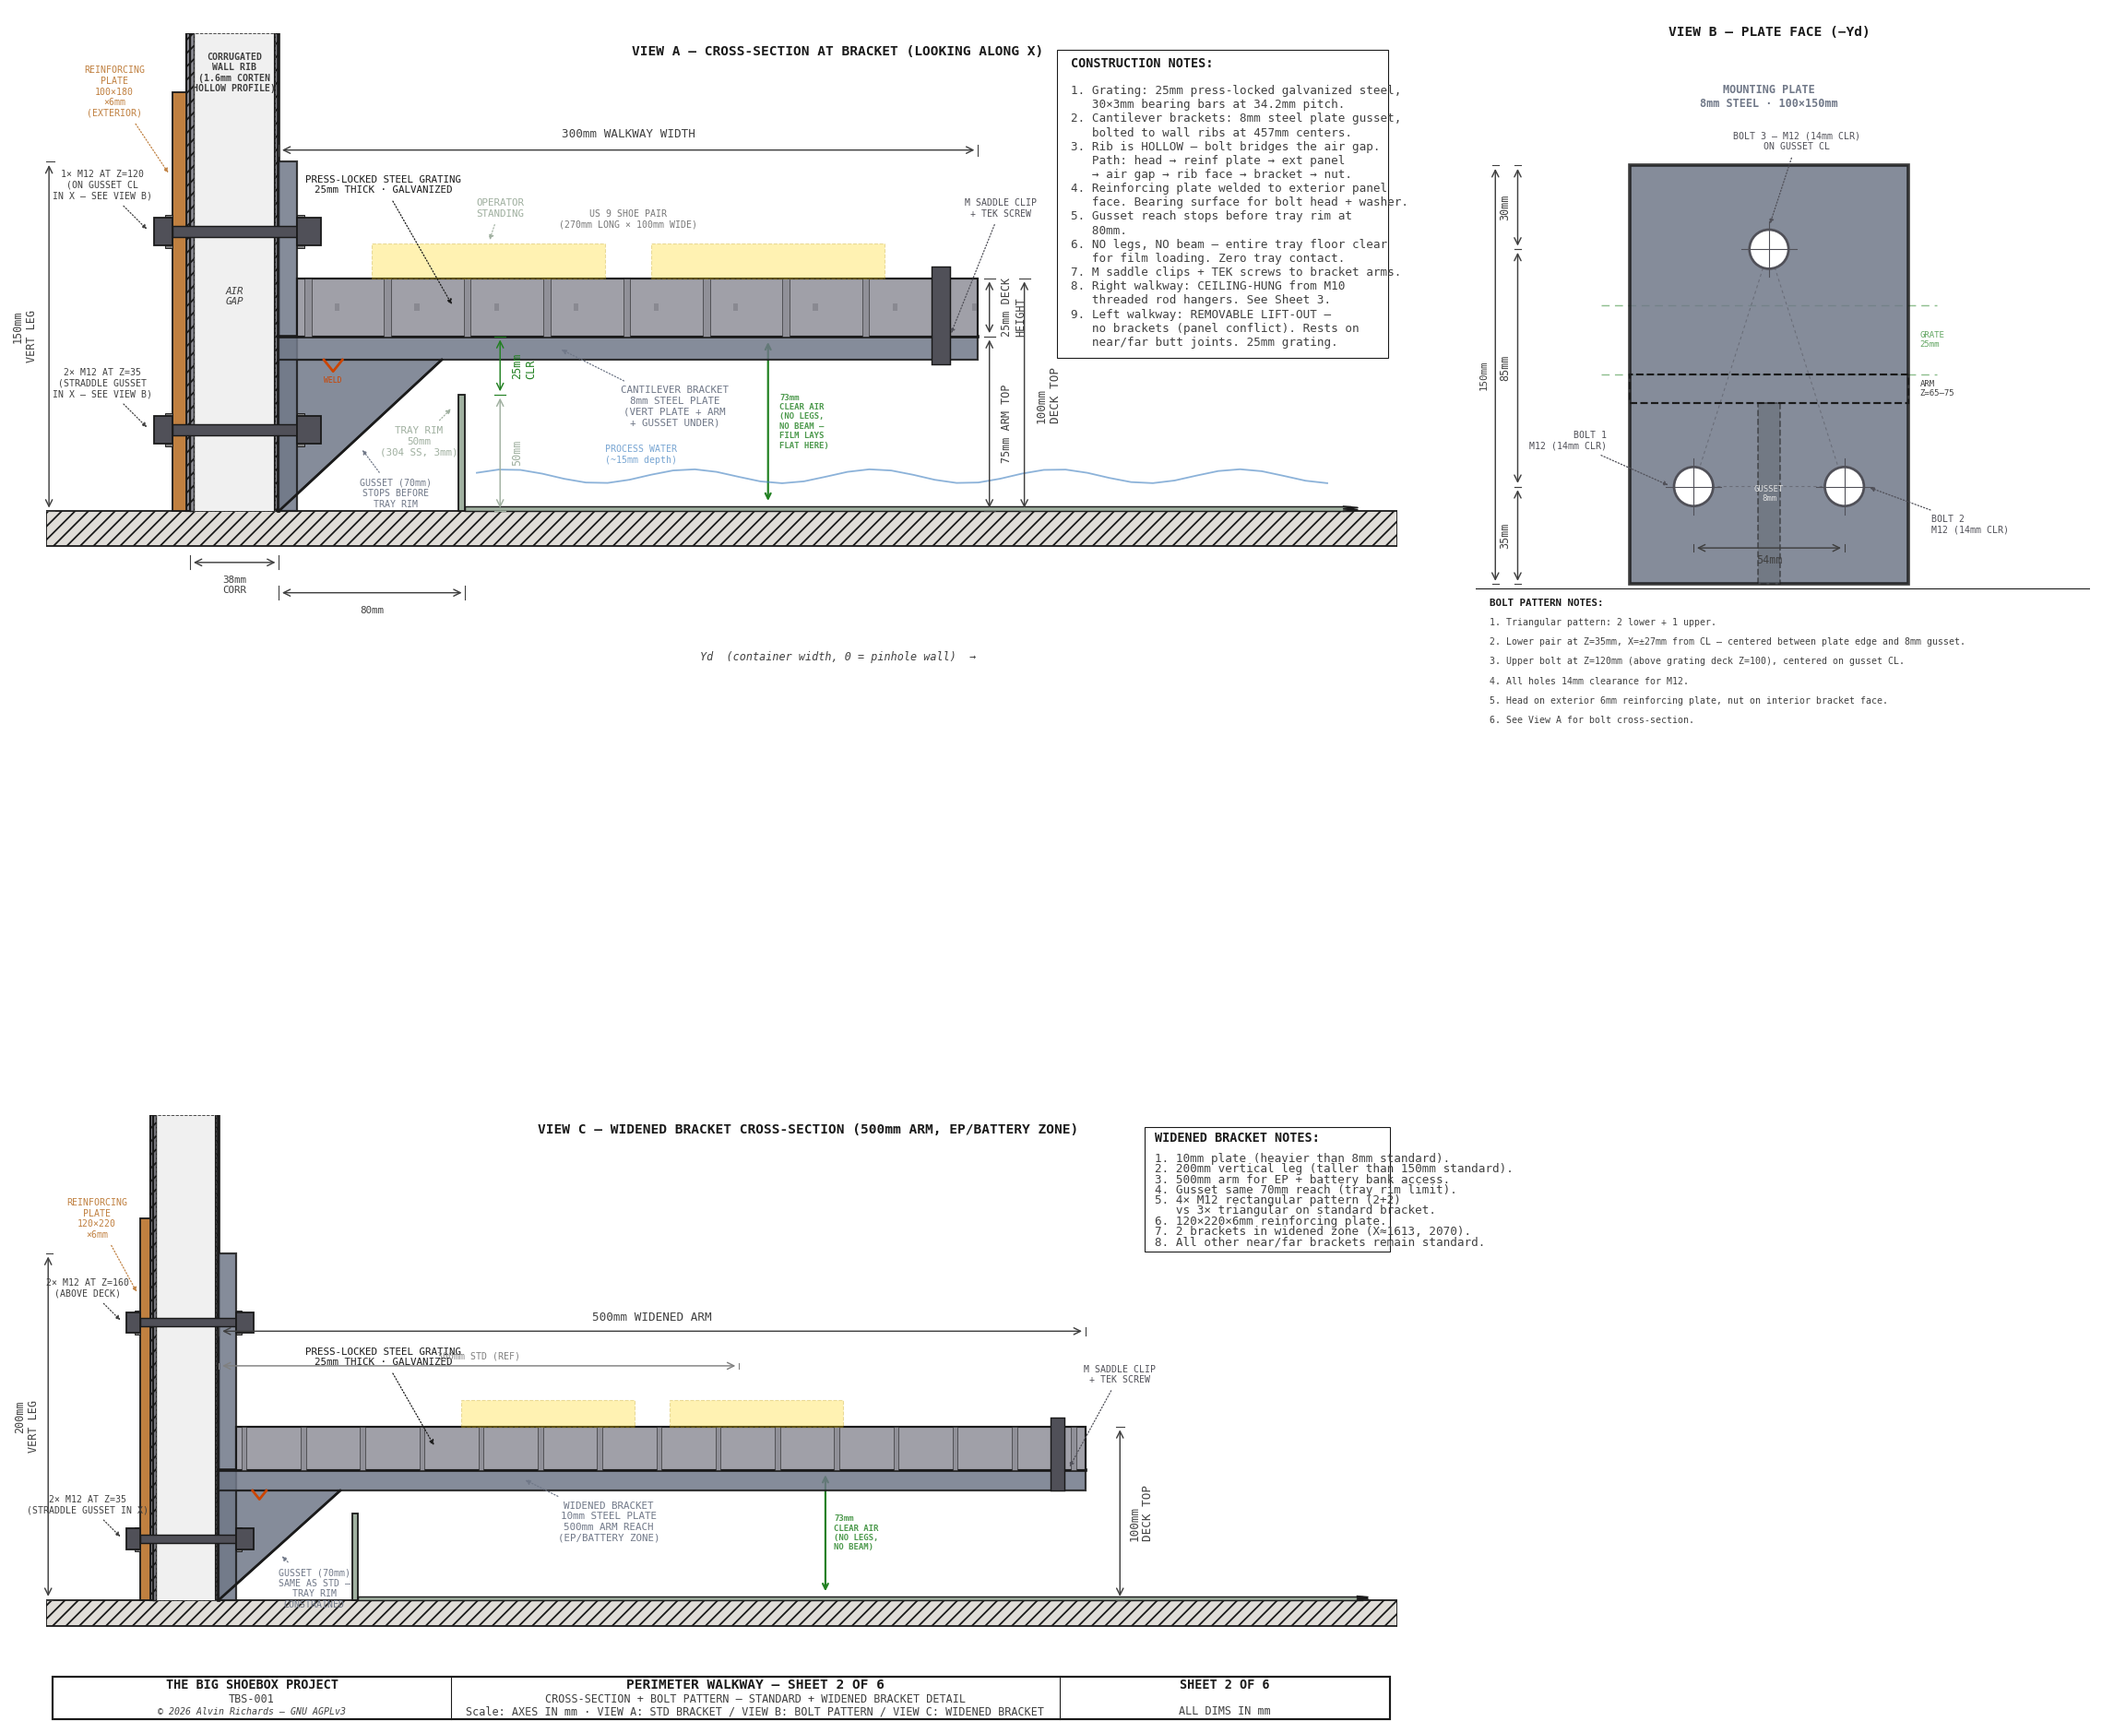
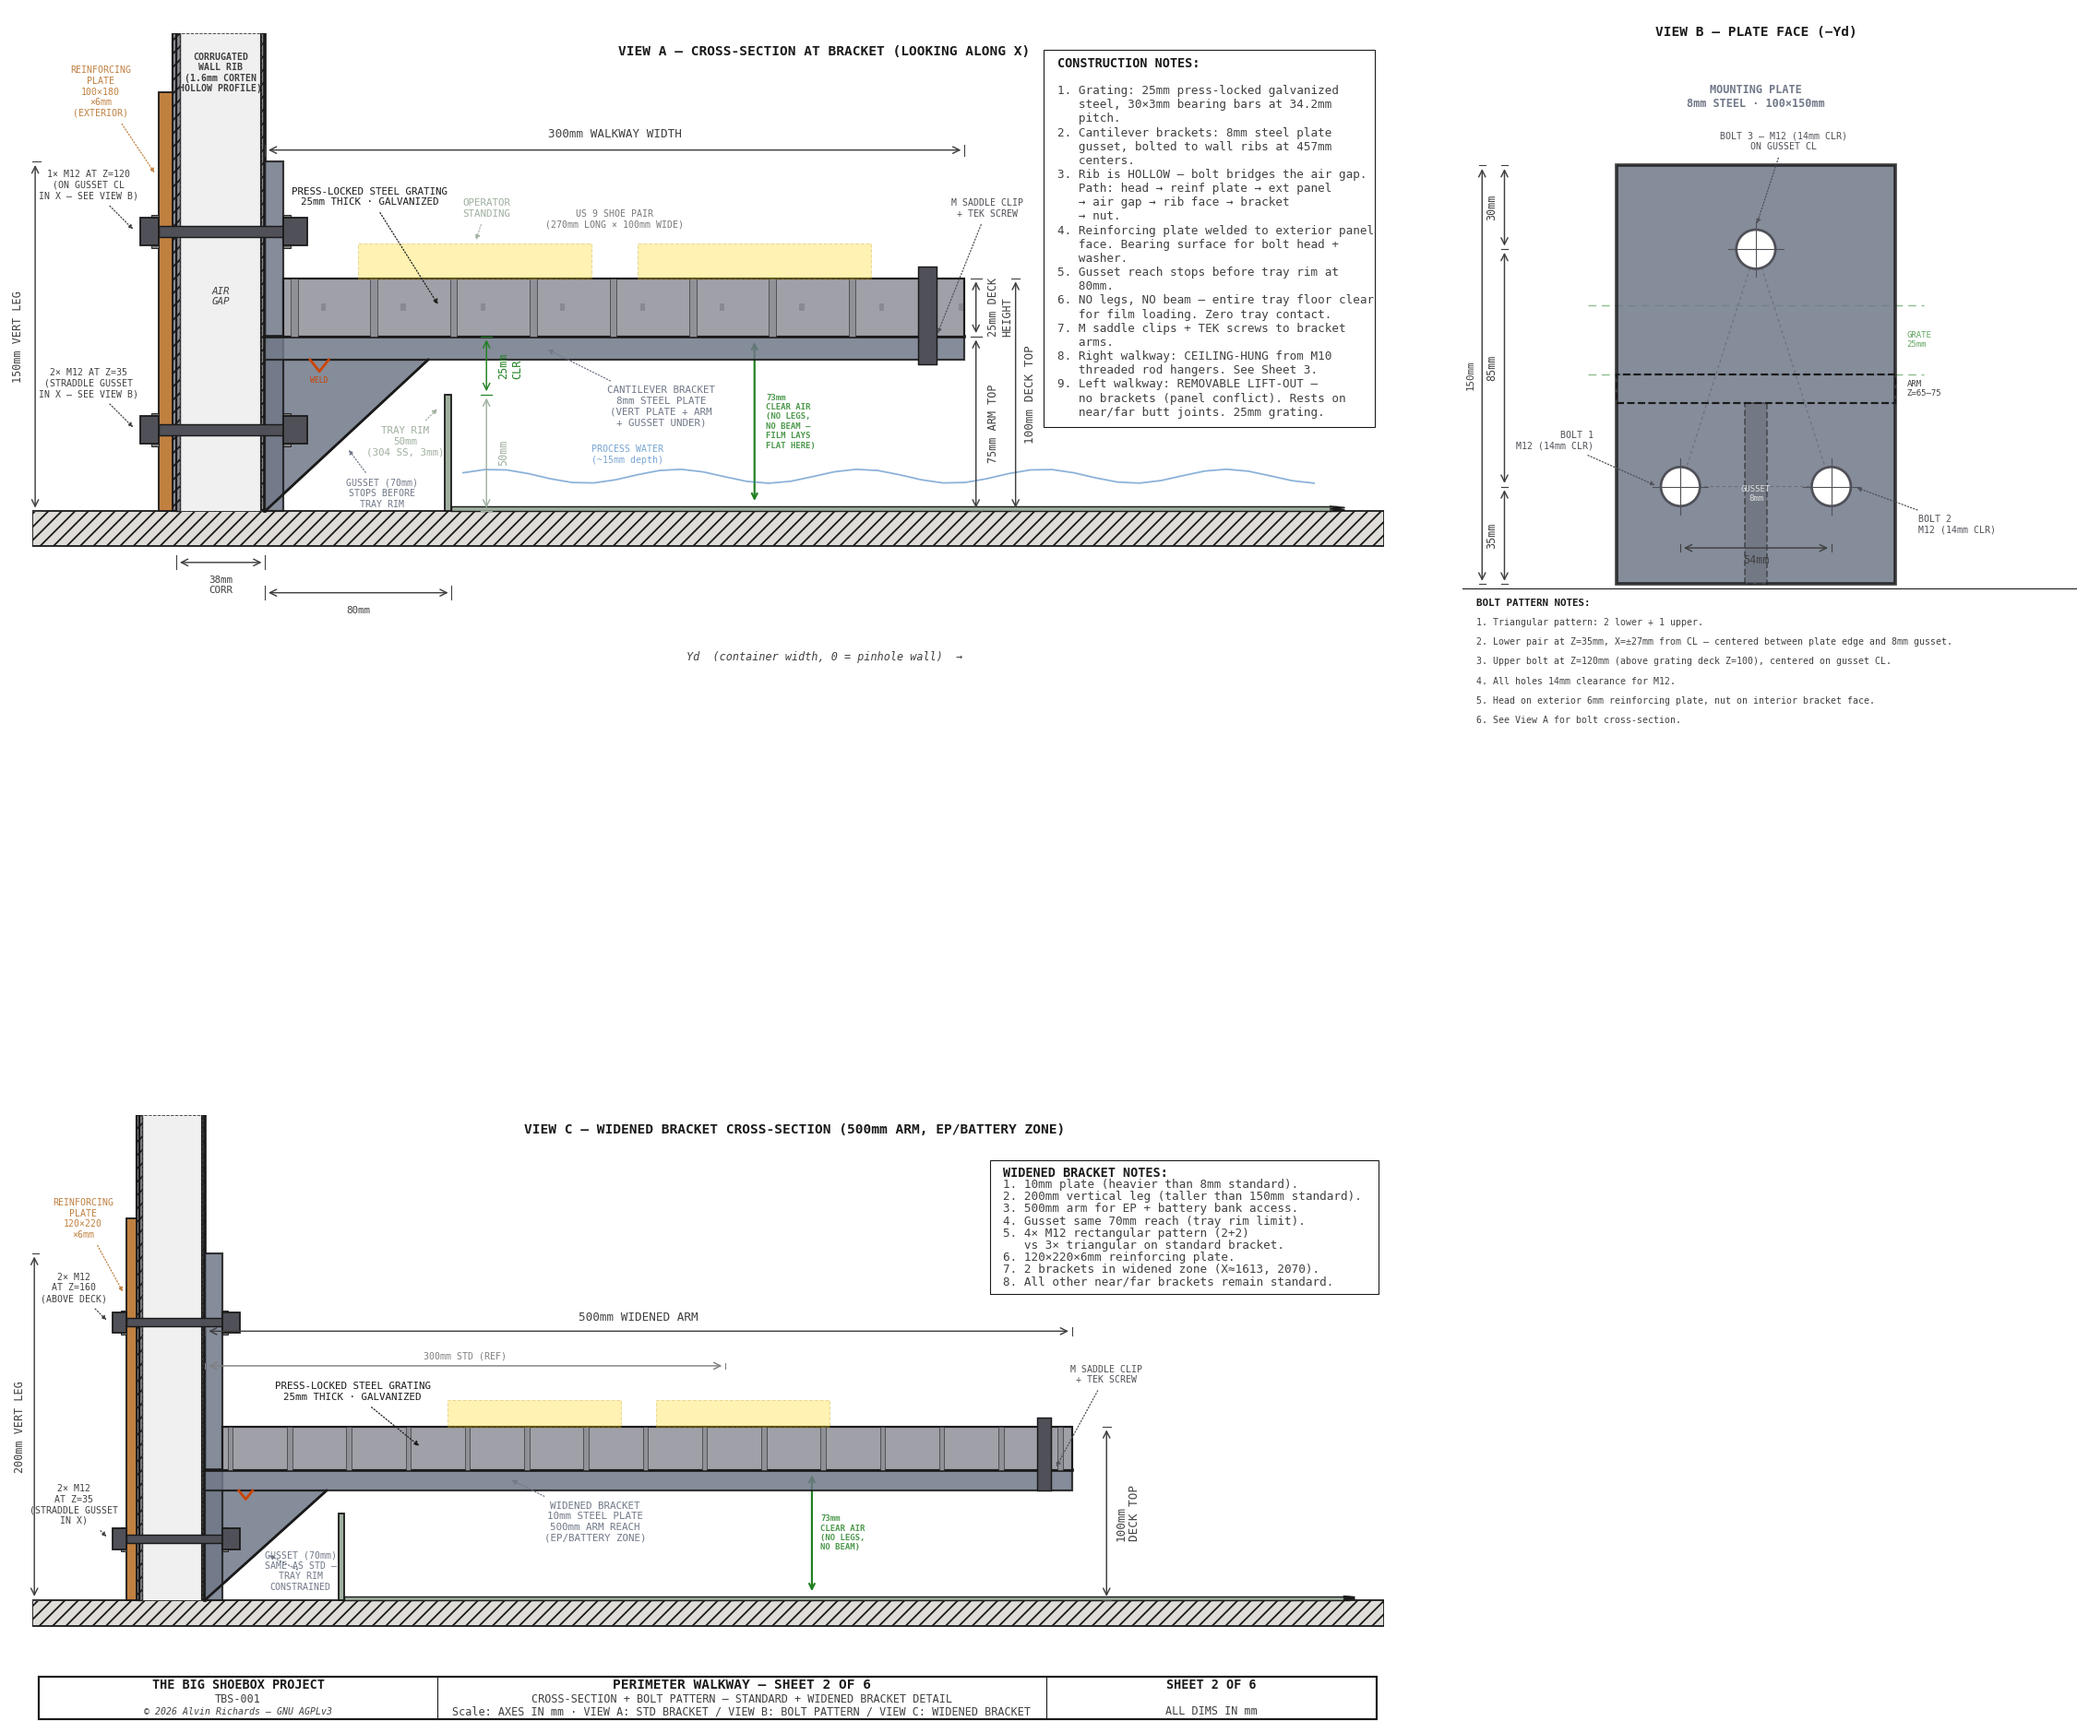
Tidy labels

diff --git a/generate_walkway_diagram.py b/generate_walkway_diagram.py
@@ -374,7 +374,7 @@ def sheet2():
                                 fc="#808088", ec="none", zorder=9, alpha=0.7))
 
     leader(ax, sx(WALKWAY_W / 4), sy((grate_bot + grate_top) / 2),
-           sx(WALKWAY_W / 4 - 30), sy(grate_top + 40),
+           sx(WALKWAY_W / 4 - 30), sy(grate_top + 35),
            f"PRESS-LOCKED STEEL GRATING\n{WALKWAY_GRATE_T}mm THICK \u00b7 GALVANIZED",
            color=C_OUT, fs=6, ha="center", va="center",
            arrow_style="-|>", font=FONT)
@@ -411,8 +411,8 @@ def sheet2():
                f"{WALKWAY_W}mm WALKWAY WIDTH", offset=sy(8), fs=7, font=FONT)
 
     # Deck height (floor to grate top)
-    draw_dim_v(ax, sx(WALKWAY_W + 20), sy(0), sy(grate_top),
-               f"{WALKWAY_H}mm\nDECK TOP", offset=sx(8), fs=7, right=True, font=FONT)
+    draw_dim_v(ax, sx(WALKWAY_W + 22), sy(0), sy(grate_top),
+               f"{WALKWAY_H}mm DECK TOP", offset=sx(6), fs=7, right=True, font=FONT)
 
     # Grate thickness
     draw_dim_v(ax, sx(WALKWAY_W + 5), sy(grate_bot), sy(grate_top),
@@ -420,7 +420,7 @@ def sheet2():
 
     # Bracket vertical leg height
     draw_dim_v(ax, sx(reinf_yd - BOLT_HEAD - 45), sy(0), sy(BRKT_VERT),
-               f"{BRKT_VERT}mm\nVERT LEG", offset=sx(8), fs=6.5, right=False, font=FONT)
+               f"{BRKT_VERT}mm VERT LEG", offset=sx(8), fs=6.5, right=False, font=FONT)
 
     # Bracket arm height
     draw_dim_v(ax, sx(WALKWAY_W + 5), sy(0), sy(brkt_arm_z),
@@ -486,20 +486,25 @@ def sheet2():
     notes = [
         "CONSTRUCTION NOTES:",
         "",
-        f"1. Grating: {WALKWAY_GRATE_T}mm press-locked galvanized steel,",
-        f"   30\u00d73mm bearing bars at 34.2mm pitch.",
-        f"2. Cantilever brackets: {BRKT_T}mm steel plate gusset,",
-        f"   bolted to wall ribs at {WALKWAY_BRACKET_SPACING}mm centers.",
+        f"1. Grating: {WALKWAY_GRATE_T}mm press-locked galvanized",
+         "   steel, 30\u00d73mm bearing bars at 34.2mm",
+         "   pitch.",
+        f"2. Cantilever brackets: {BRKT_T}mm steel plate",
+        f"   gusset, bolted to wall ribs at {WALKWAY_BRACKET_SPACING}mm",
+         "   centers.",
         f"3. Rib is HOLLOW — bolt bridges the air gap.",
         f"   Path: head \u2192 reinf plate \u2192 ext panel",
-        f"   \u2192 air gap \u2192 rib face \u2192 bracket \u2192 nut.",
+        f"   \u2192 air gap \u2192 rib face \u2192 bracket",
+         "   \u2192 nut.",
         f"4. Reinforcing plate welded to exterior panel",
-        f"   face. Bearing surface for bolt head + washer.",
+        f"   face. Bearing surface for bolt head + ",
+         "   washer.",
         f"5. Gusset reach stops before tray rim at",
         f"   {PROC_TRAY_YD_NEAR}mm.",
         f"6. NO legs, NO beam — entire tray floor clear",
         f"   for film loading. Zero tray contact.",
-        f"7. M saddle clips + TEK screws to bracket arms.",
+        f"7. M saddle clips + TEK screws to bracket",
+         "   arms.",
         f"8. Right walkway: CEILING-HUNG from M{WALKWAY_RIGHT_HANGER_D}",
         f"   threaded rod hangers. See Sheet 3.",
         f"9. Left walkway: REMOVABLE LIFT-OUT —",
@@ -788,7 +793,7 @@ def sheet2():
 
     # Gusset label
     leader(ax3, sx(W_GUSSET / 2), sy(w_arm_bot / 2 - 5),
-           sx(W_GUSSET - 15), sy(w_arm_bot / 2 - 25),
+           sx(W_GUSSET - 15), sy(w_arm_bot / 2 - 15),
            f"GUSSET ({W_GUSSET}mm)\nSAME AS STD —\nTRAY RIM\nCONSTRAINED",
            color=C_BRKT, fs=5.5,
            ha="center", va="center", arrow_style="-|>", font=FONT)
@@ -796,12 +801,12 @@ def sheet2():
     # Bolt labels
     leader(ax3, sx(w_reinf_yd - W_BOLT_HEAD - 2), sy(w_bolt_z_lo),
            sx(w_reinf_yd - 30), sy(w_bolt_z_lo + 20),
-           f"2× M12 AT Z={w_bolt_z_lo}\n(STRADDLE GUSSET IN X)",
+           f"2× M12\nAT Z={w_bolt_z_lo}\n(STRADDLE GUSSET\nIN X)",
            color=C_DIM, fs=5.5,
            ha="center", va="center", arrow_style="-|>", font=FONT)
     leader(ax3, sx(w_reinf_yd - W_BOLT_HEAD - 2), sy(w_bolt_z_hi),
            sx(w_reinf_yd - 30), sy(w_bolt_z_hi + 20),
-           f"2× M12 AT Z={w_bolt_z_hi}\n(ABOVE DECK)",
+           f"2× M12\nAT Z={w_bolt_z_hi}\n(ABOVE DECK)",
            color=C_DIM, fs=5.5,
            ha="center", va="center", arrow_style="-|>", font=FONT)
 
@@ -817,7 +822,7 @@ def sheet2():
                                  fc="#909098", ec=C_OUT, lw=0.3, zorder=8))
 
     leader(ax3, sx(W_ARM_W / 4), sy((w_grate_bot + w_grate_top) / 2),
-           sx(W_ARM_W / 4 - 30), sy(w_grate_top + 40),
+           sx(W_ARM_W / 4 - 40), sy(w_grate_top + 20),
            f"PRESS-LOCKED STEEL GRATING\n{WALKWAY_GRATE_T}mm THICK · GALVANIZED",
            color=C_OUT, fs=6, ha="center", va="center",
            arrow_style="-|>", font=FONT)
@@ -867,14 +872,13 @@ def sheet2():
     draw_dim_v(ax3, sx(W_ARM_W + 20), sy(0), sy(w_grate_top),
                f"{WALKWAY_H}mm\nDECK TOP", offset=sx(8), fs=7, right=True, font=FONT)
     draw_dim_v(ax3, sx(w_reinf_yd - W_BOLT_HEAD - 45), sy(0), sy(W_BRKT_VERT),
-               f"{W_BRKT_VERT}mm\nVERT LEG", offset=sx(8), fs=6.5, right=False, font=FONT)
+               f"{W_BRKT_VERT}mm VERT LEG", offset=sx(8), fs=6.5, right=False, font=FONT)
 
     # ── Notes ────────────────────────────────────────────────────────────────
-    w_notes_x = sx(W_ARM_W + 40)
-    w_notes_top = sy(WC_Z_HI - 10)
+    w_notes_x = sx(W_ARM_W - 40)
+    w_notes_top = sy(WC_Z_HI - 30)
     w_notes = [
         "WIDENED BRACKET NOTES:",
-        "",
         f"1. {W_BRKT_T}mm plate (heavier than {BRKT_T}mm standard).",
         f"2. {W_BRKT_VERT}mm vertical leg (taller than {BRKT_VERT}mm standard).",
         f"3. 500mm arm for EP + battery bank access.",
@@ -886,7 +890,7 @@ def sheet2():
         f"8. All other near/far brackets remain standard.",
     ]
     draw_notes(ax3, w_notes, w_notes_x, w_notes_top,
-               spacing=sy(6), fs=7, width=sx(130), font=FONT)
+               spacing=sy(7), fs=7, width=sx(210), font=FONT)
 
     # ── Title block (on View C axes — bottom of figure) ──────────────────────
     title_block(ax3, "SHEET 2 OF 6",
